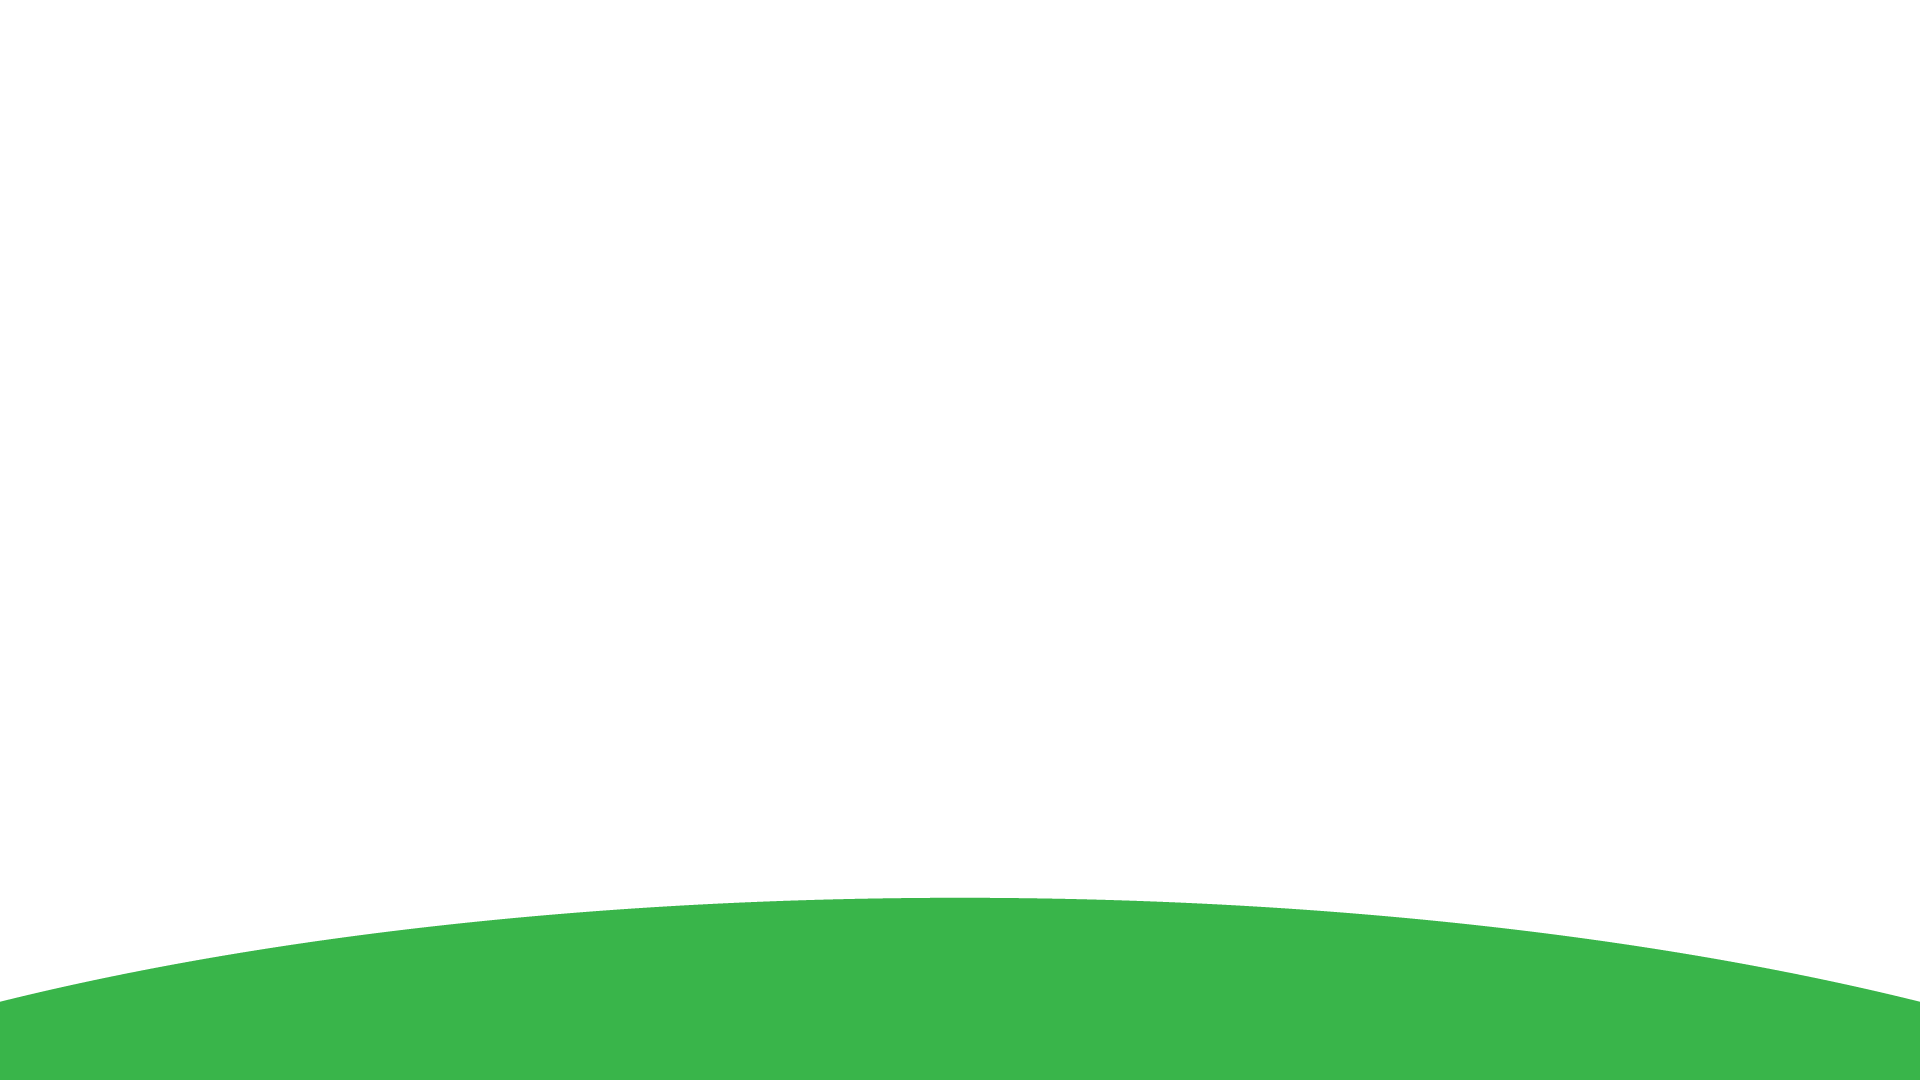
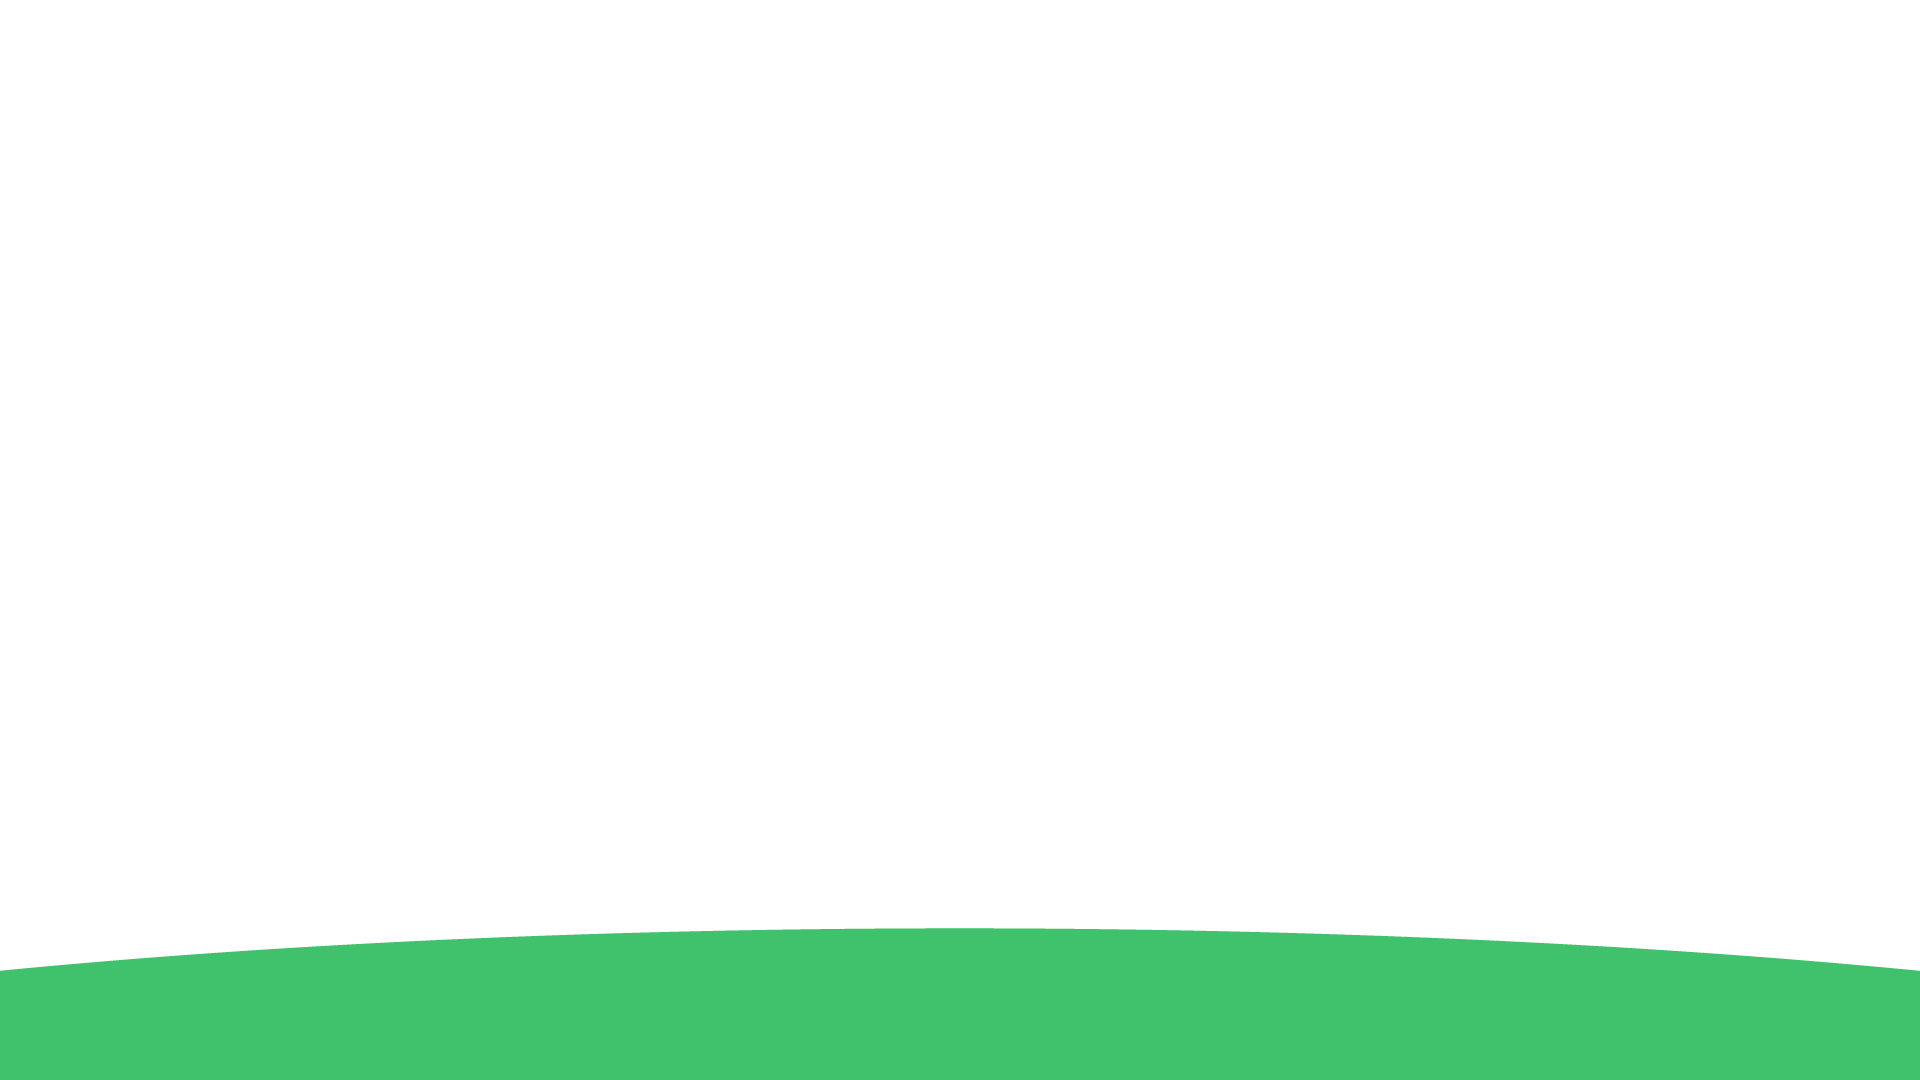
Added various front-end enhancements (oddly specific)

Changed region(s): [[0.0, 0.825, 1.0, 1.0]]

diff --git a/index.html b/index.html
@@ -4,6 +4,7 @@
     <meta charset="UTF-8">
     <title>Twiggy</title>
     <link href="style/index.css" type="text/css" rel="stylesheet">
+    <link rel="icon" type="image/png" href="media/main/favico.png">
     <script type="text/javascript" src="scrollmagic/uncompressed/ScrollMagic.js"></script>
     <script type="text/javascript" src="scrollmagic/uncompressed/plugins/debug.addIndicators.js"></script>
 </head>
@@ -27,7 +28,8 @@
         <img src="media/section1/secondHill.png" class="secondHillImage" id="secondHillImage">
         <img src="media/section1/thirdHill.png" class="thirdHillImage" id="thirdHillImage">
         <!--MAIN FRONT-->
-        <img src="media/main/mainHill.png" class="mainHillImage">
+        <img src="media/main/mainDesertHill.png" class="mainDesertHillImage" id="mainHillDesertImage">
+        <img src="media/main/mainHill.png" class="mainHillImage" id="mainHillImage">
         <img src="media/main/apple_seed.png" class="appleSeedImage" id="appleSeedImage">
         <img src="media/main/gifs/1.gif" class="plant" id="plant">
     </section>
@@ -51,7 +53,7 @@
         </div>
         <div class="playText" id="playText">
             <div class="playTextContent" id="playTextContent">
-                Plant jouw zaadje en zorg ervoor dat hij uitgroeit tot een grote boom.
+                Plant het zaadje van jouw favoriete boom, geef hem genoeg water en spaar energie om hem te laten groeien.
             </div>
         </div>
     </section>

diff --git a/js/main.js b/js/main.js
@@ -11,6 +11,7 @@ const viewHeight = document.getElementById('overlayAnimations').clientHeight;
 
 //Elements
 //Home
+const mainHill = document.getElementById('mainHillImage');
 const homeTitle = document.getElementById('homeTitle');
 const appleSeed = document.getElementById('appleSeedImage');
 const plant = document.getElementById('plant');
@@ -71,7 +72,7 @@ function animate() {
 }
 
 function animateSeedToPlant() {
-    appleSeed.style.top = 55 + latestKnownScrollY * 0.05 + '%';
+    appleSeed.style.top = 60 + latestKnownScrollY * 0.05 + '%';
     plantText.style.opacity = 1 - (latestKnownScrollY * 0.0015);
     if ((50 + latestKnownScrollY * 0.05) > 85) {
         appleSeed.style.opacity = '0';
@@ -101,6 +102,7 @@ function sectionTwoAnimation() {
     plantText.style.opacity = '0';
     appleSeed.style.opacity = '0';
 
+    mainHill.style.opacity = '1';
     plant.style.opacity = '1';
     plant.src = 'media/main/gifs/1.gif';
     plant.style.top = '85%';
@@ -128,6 +130,7 @@ function sectionTwoAnimation() {
 }
 
 function sectionThreeAnimation() {
+    mainHill.style.opacity = '0';
     plant.src = 'media/main/gifs/4.gif';
     plant.style.top = '75%';
     mountain1.style.bottom = '-100vh';
@@ -156,6 +159,7 @@ function sectionThreeAnimation() {
 }
 
 function sectionFourAnimation() {
+    mainHill.style.opacity = '1';
     plant.src = 'media/main/gifs/smaller7.gif';
     plant.style.top = '50%';
     desertHill1.style.bottom = '-100vh';
